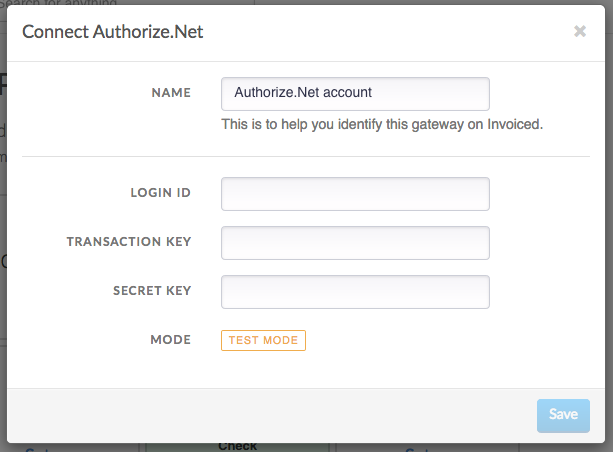
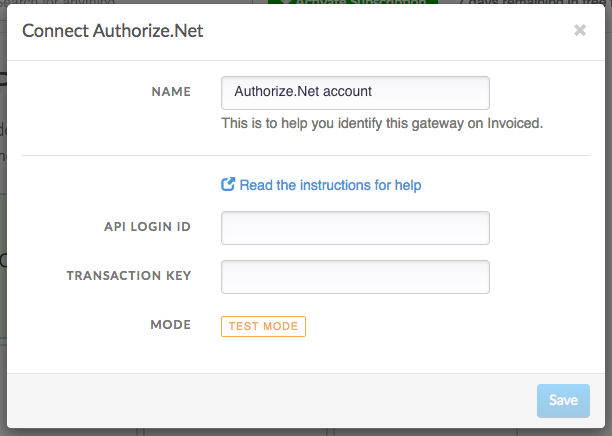
update authorize.net setup instructions

diff --git a/integrations/authorizenet.md b/integrations/authorizenet.md
@@ -31,7 +31,9 @@ Connecting Authorize.Net is a straightforward process. Follow these steps to sta
 
    [![Authorize.Net Settings Page](../img/authorizenet-connect.png)](../img/authorizenet-connect.png)
 
-5. Enter in your Authorize.Net **Login ID**, **Transaction Key**, and **Secret Key** and click **Save**. Then click **Enable** and the payment method you selected should be enabled.
+5. Enter in your Authorize.Net **API Login ID** and **Transaction Key**. You can find your API credentials from the Authorize.Net Merchant Interface by following [these instructions](https://support.authorize.net/authkb/index?page=content&id=A576).
+
+6. Click **Save**. Then click **Enable** and the payment method you selected should be enabled.
 
    [![Authorize.Net Payments Enabled](../img/authorizenet-enabled.png)](../img/authorizenet-enabled.png)
 
